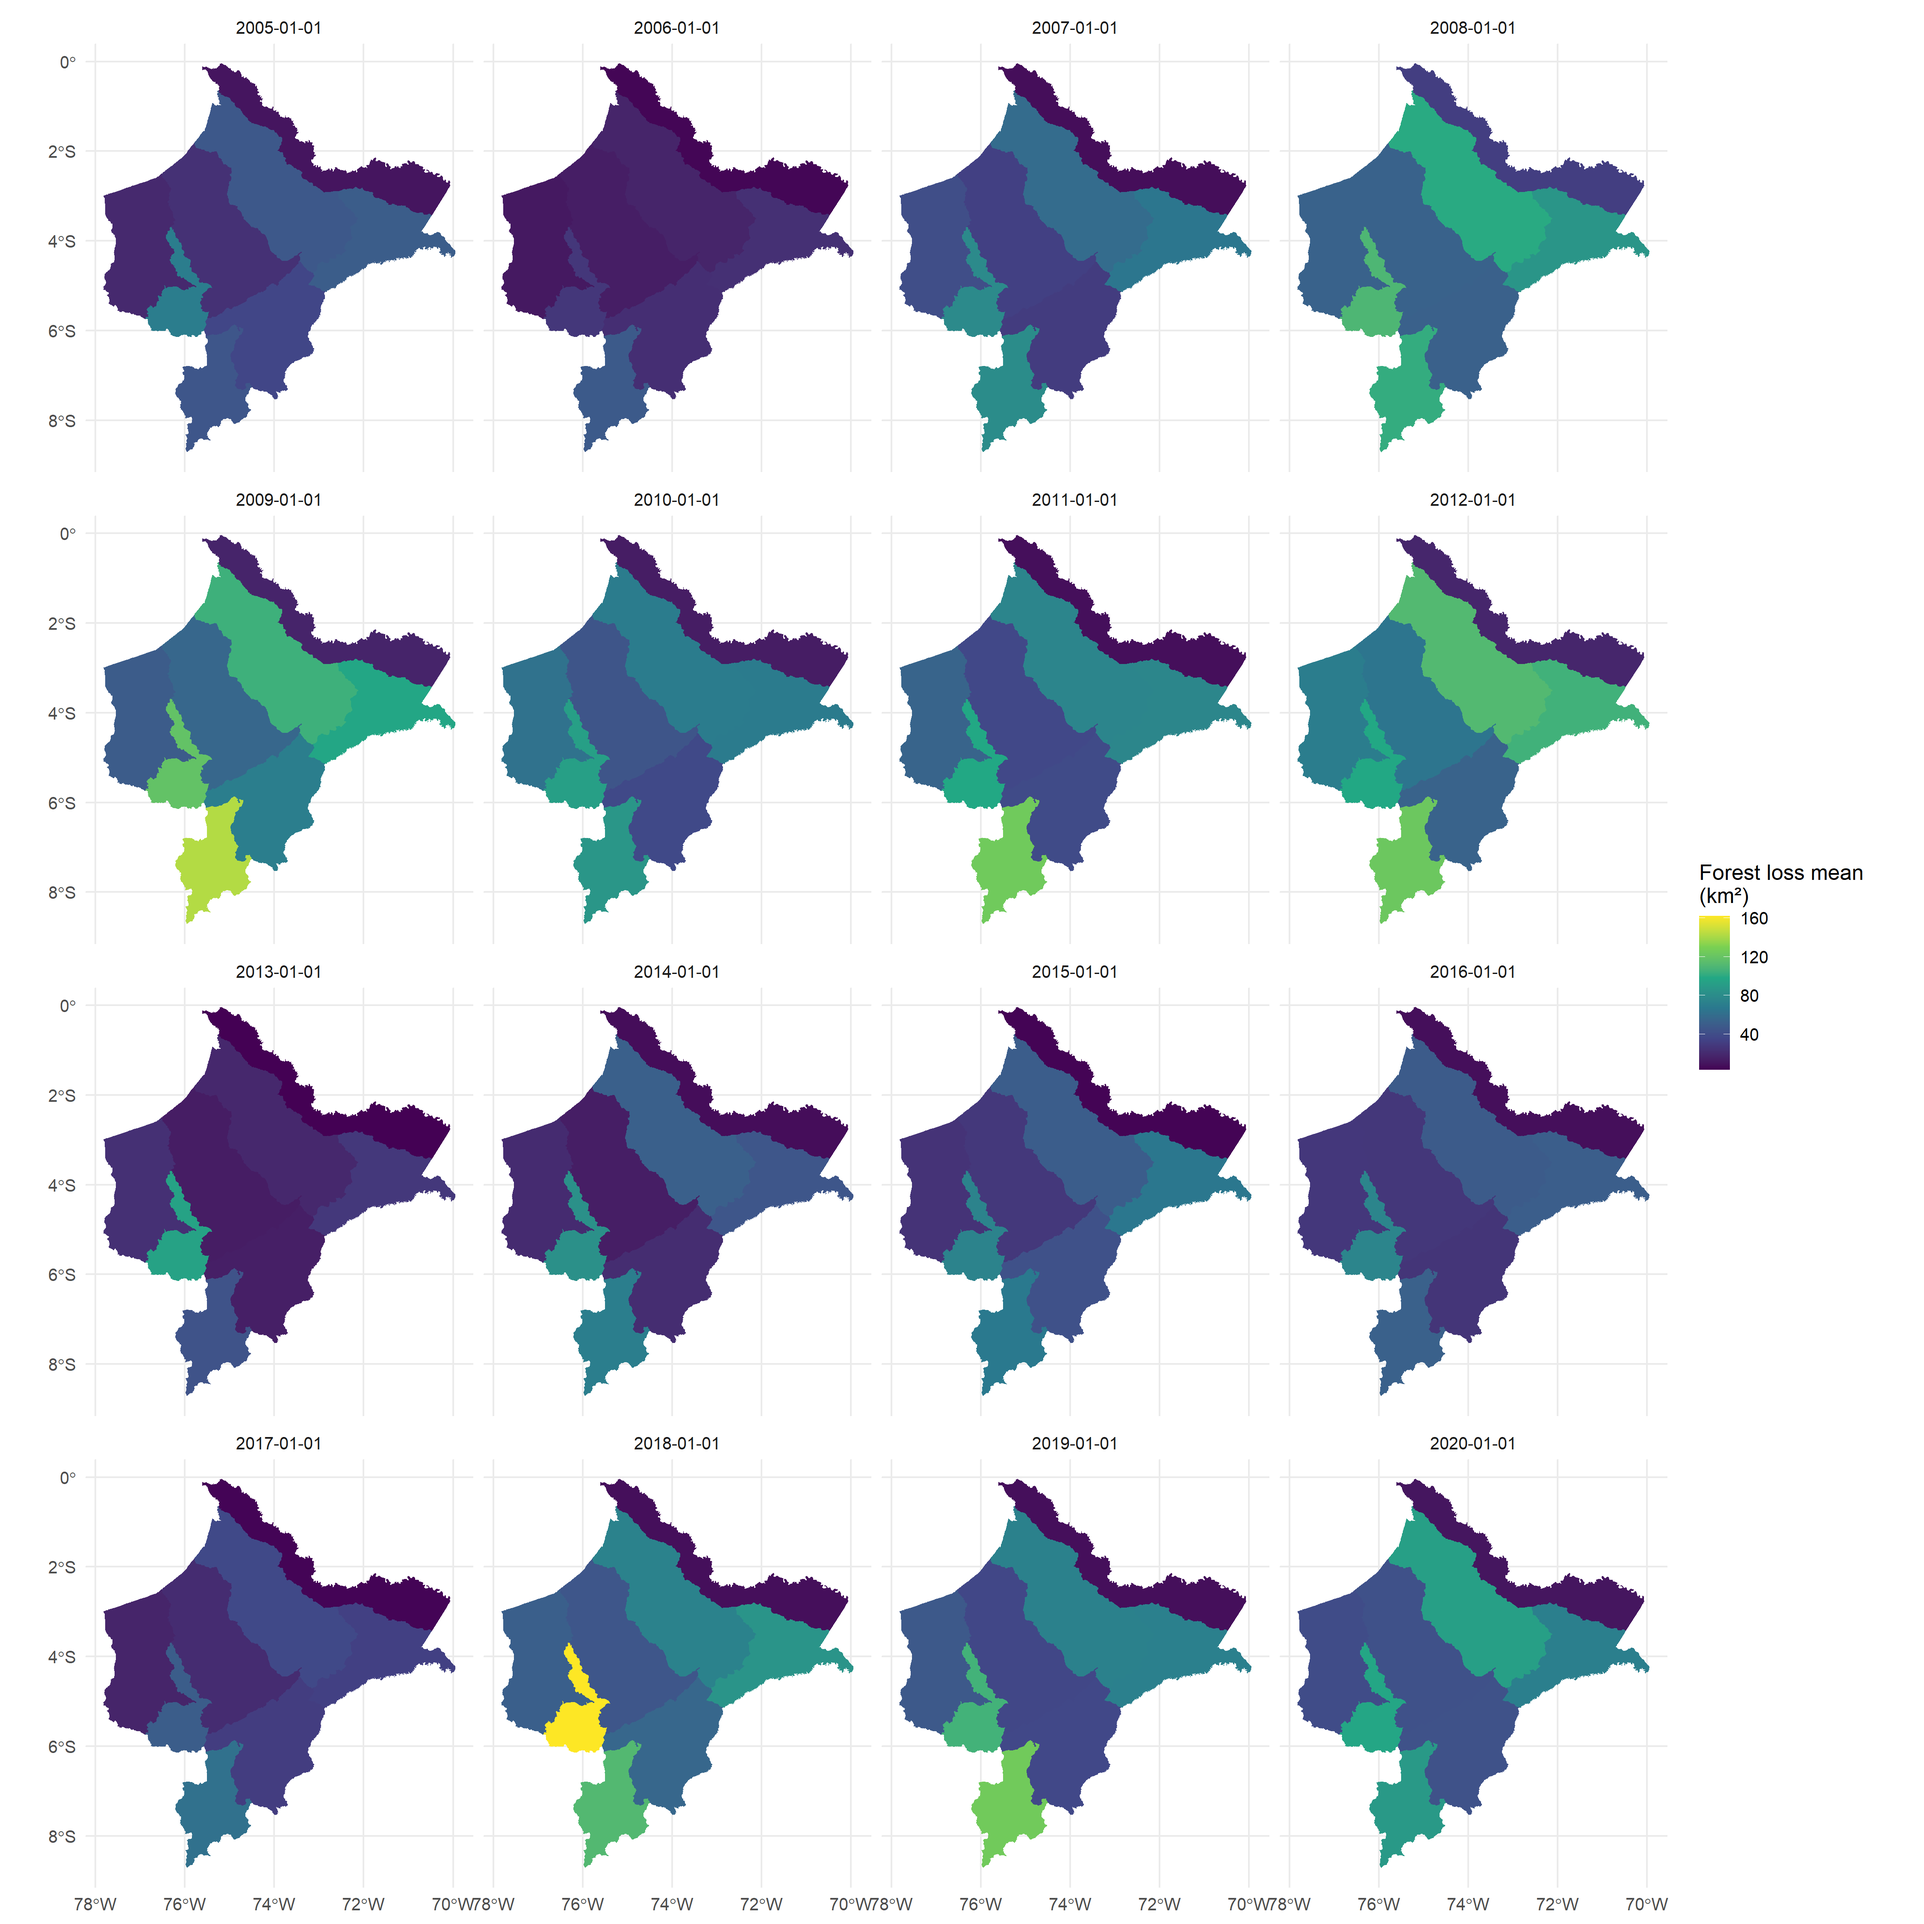
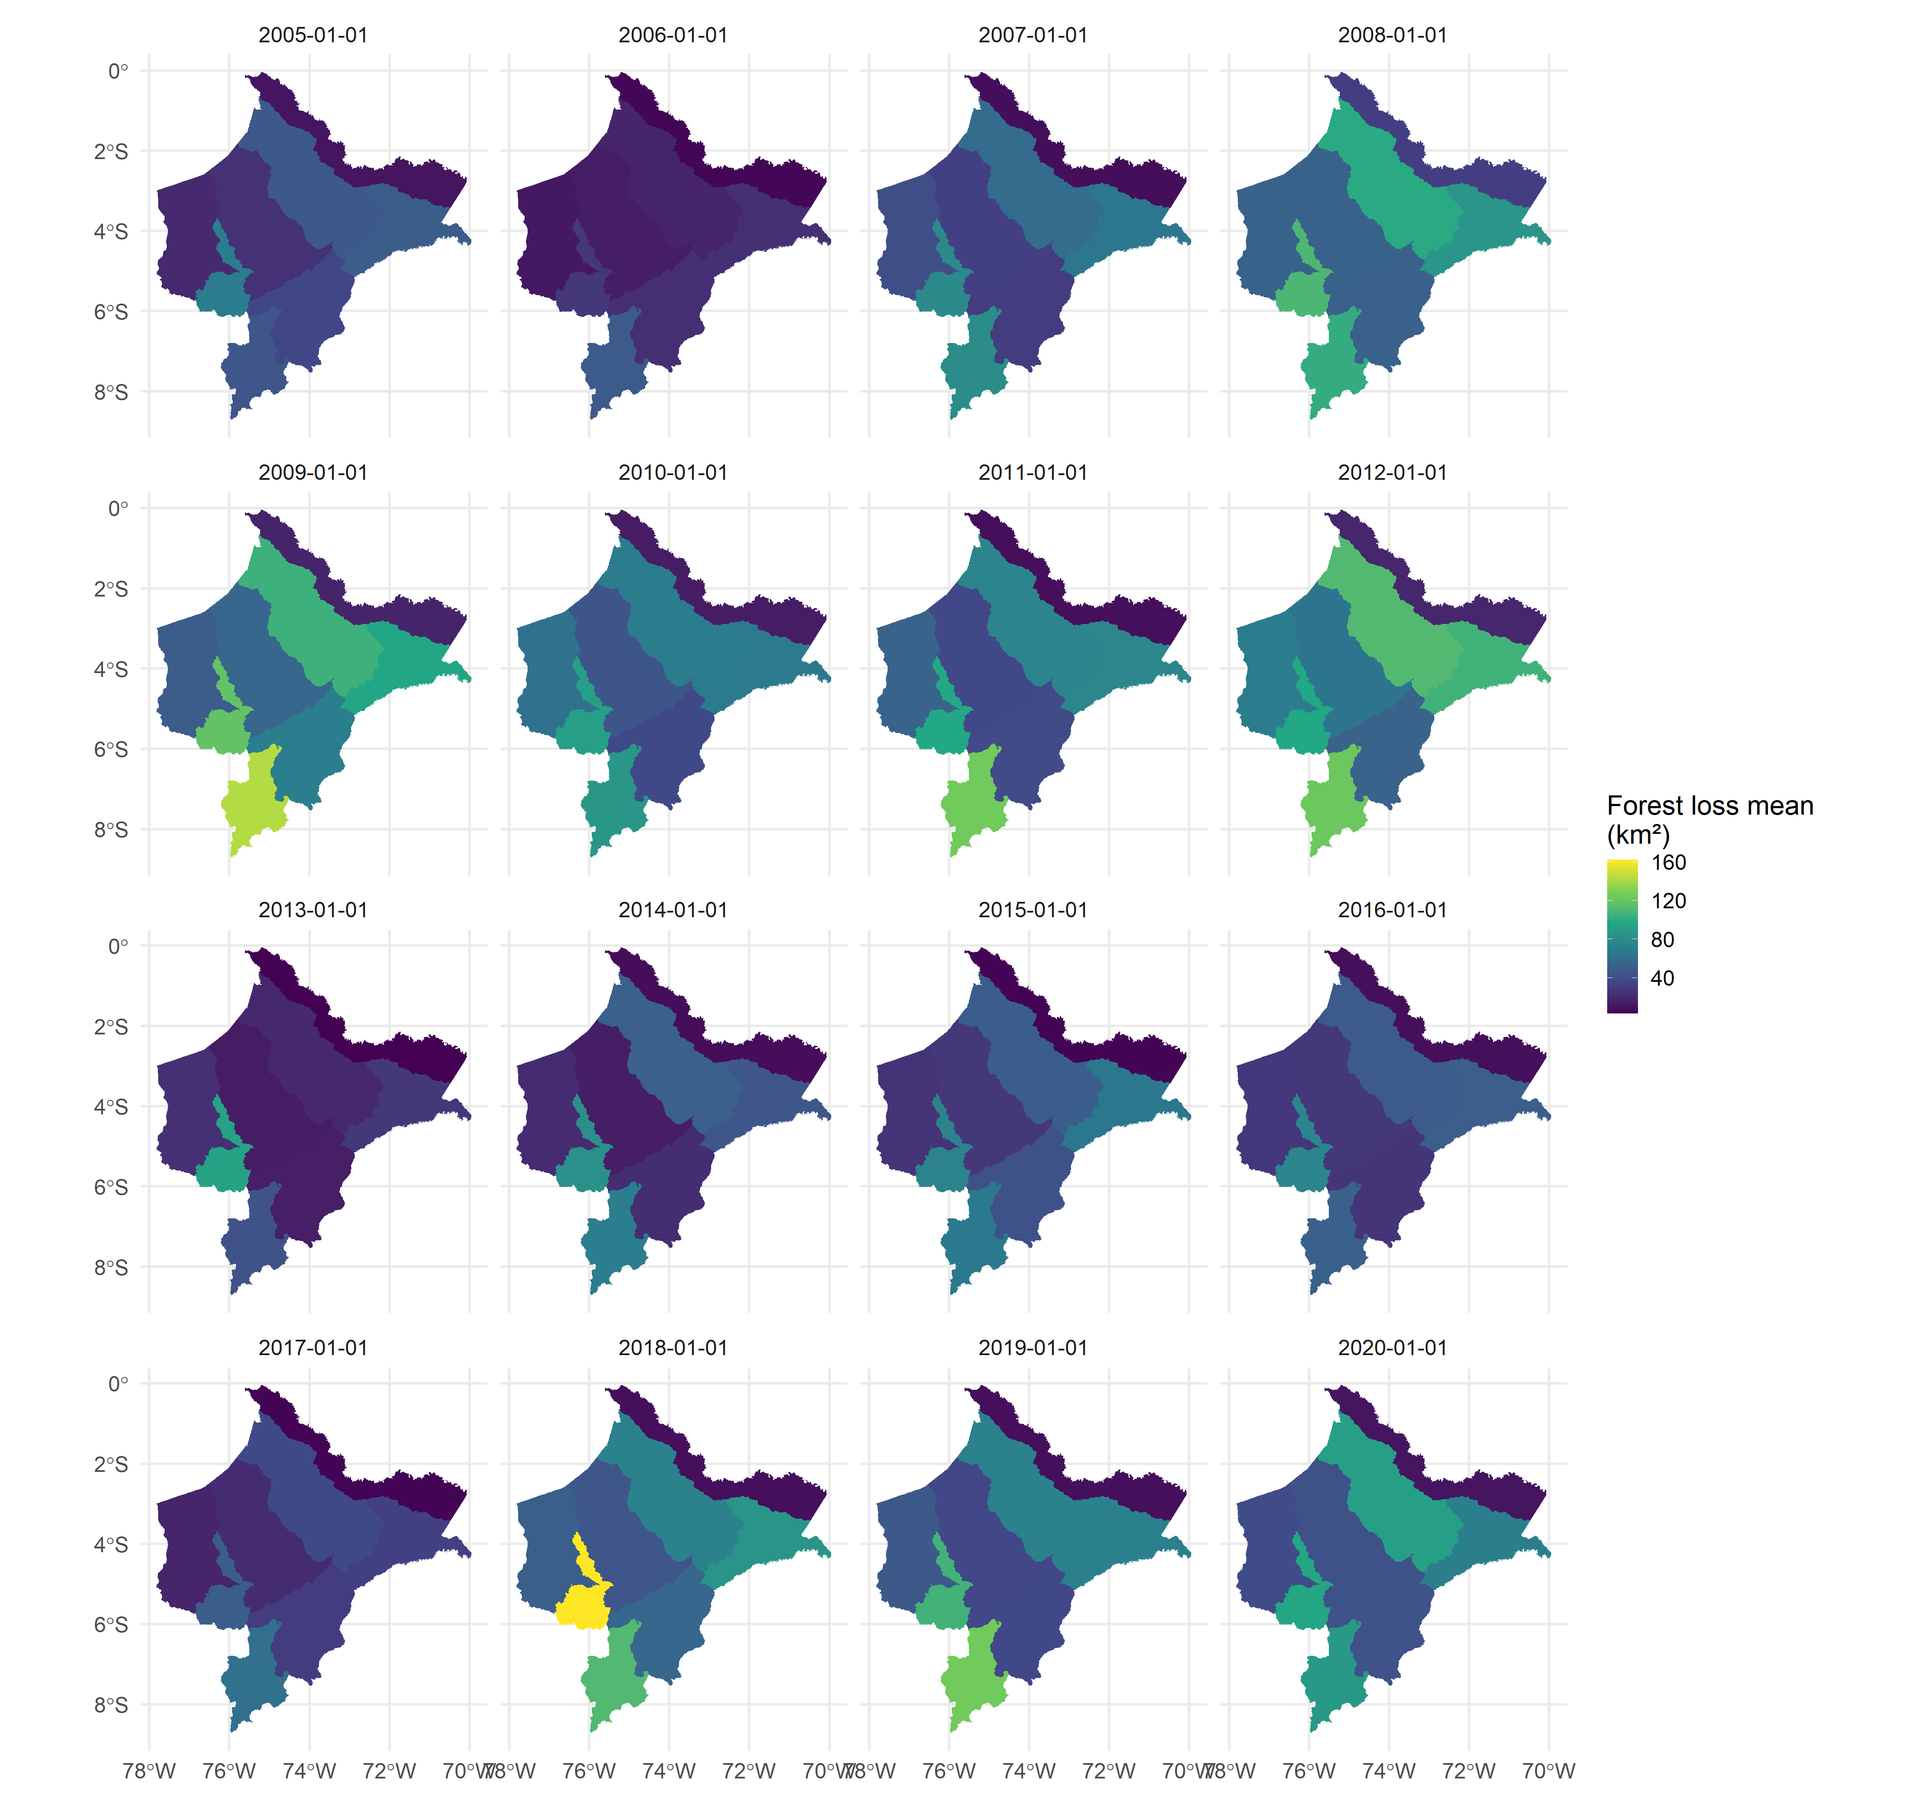
updated

diff --git a/README.md b/README.md
@@ -104,7 +104,7 @@ head(result)
 library(ggplot2)
 #> Warning: package 'ggplot2' was built under R version 4.4.3
 ggplot(data = st_drop_geometry(result),aes(x = date,y = value)) +
-  geom_area(fill = '#80b918',alpha = 0.5) + 
+  geom_area(fill = '#440154FF',alpha = 0.7) + 
   facet_wrap(~nombprov) + 
   theme_minimal()
 ```
@@ -116,7 +116,7 @@ ggplot(data = st_drop_geometry(result),aes(x = date,y = value)) +
 ggplot(data = result) + 
   geom_sf(aes(fill = value), color = NA) + 
   scale_fill_viridis_c(name = "Forest loss mean \n(km²)") + 
-  theme_minimal(base_size = 12) + 
+  theme_minimal(base_size = 15) + 
   facet_wrap(date ~.)
 ```
 
